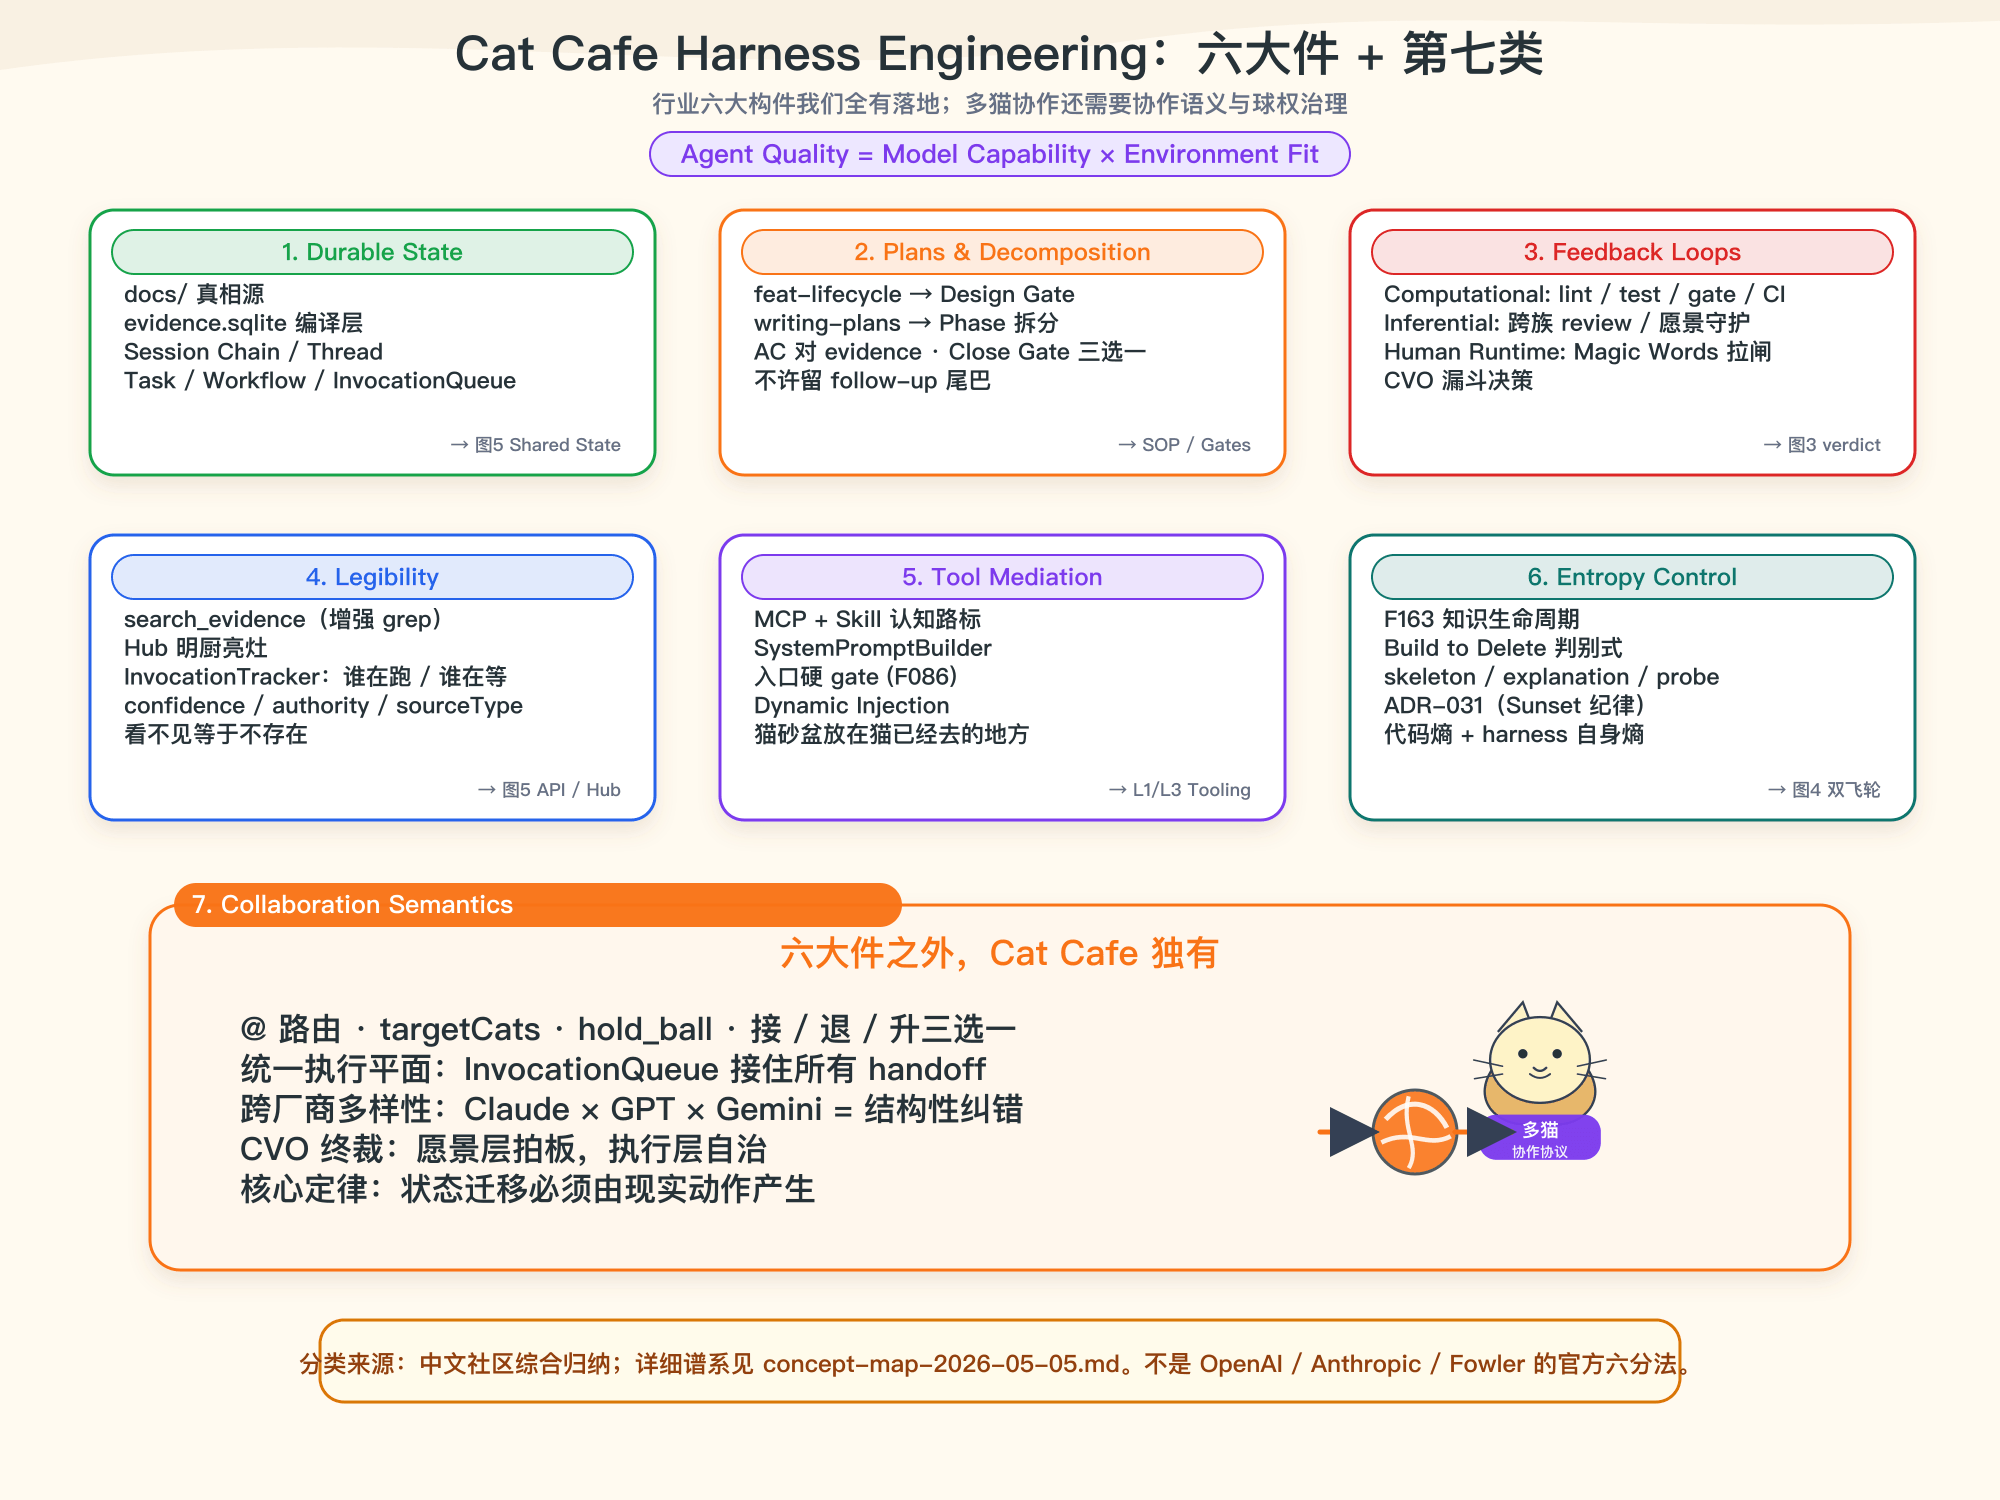
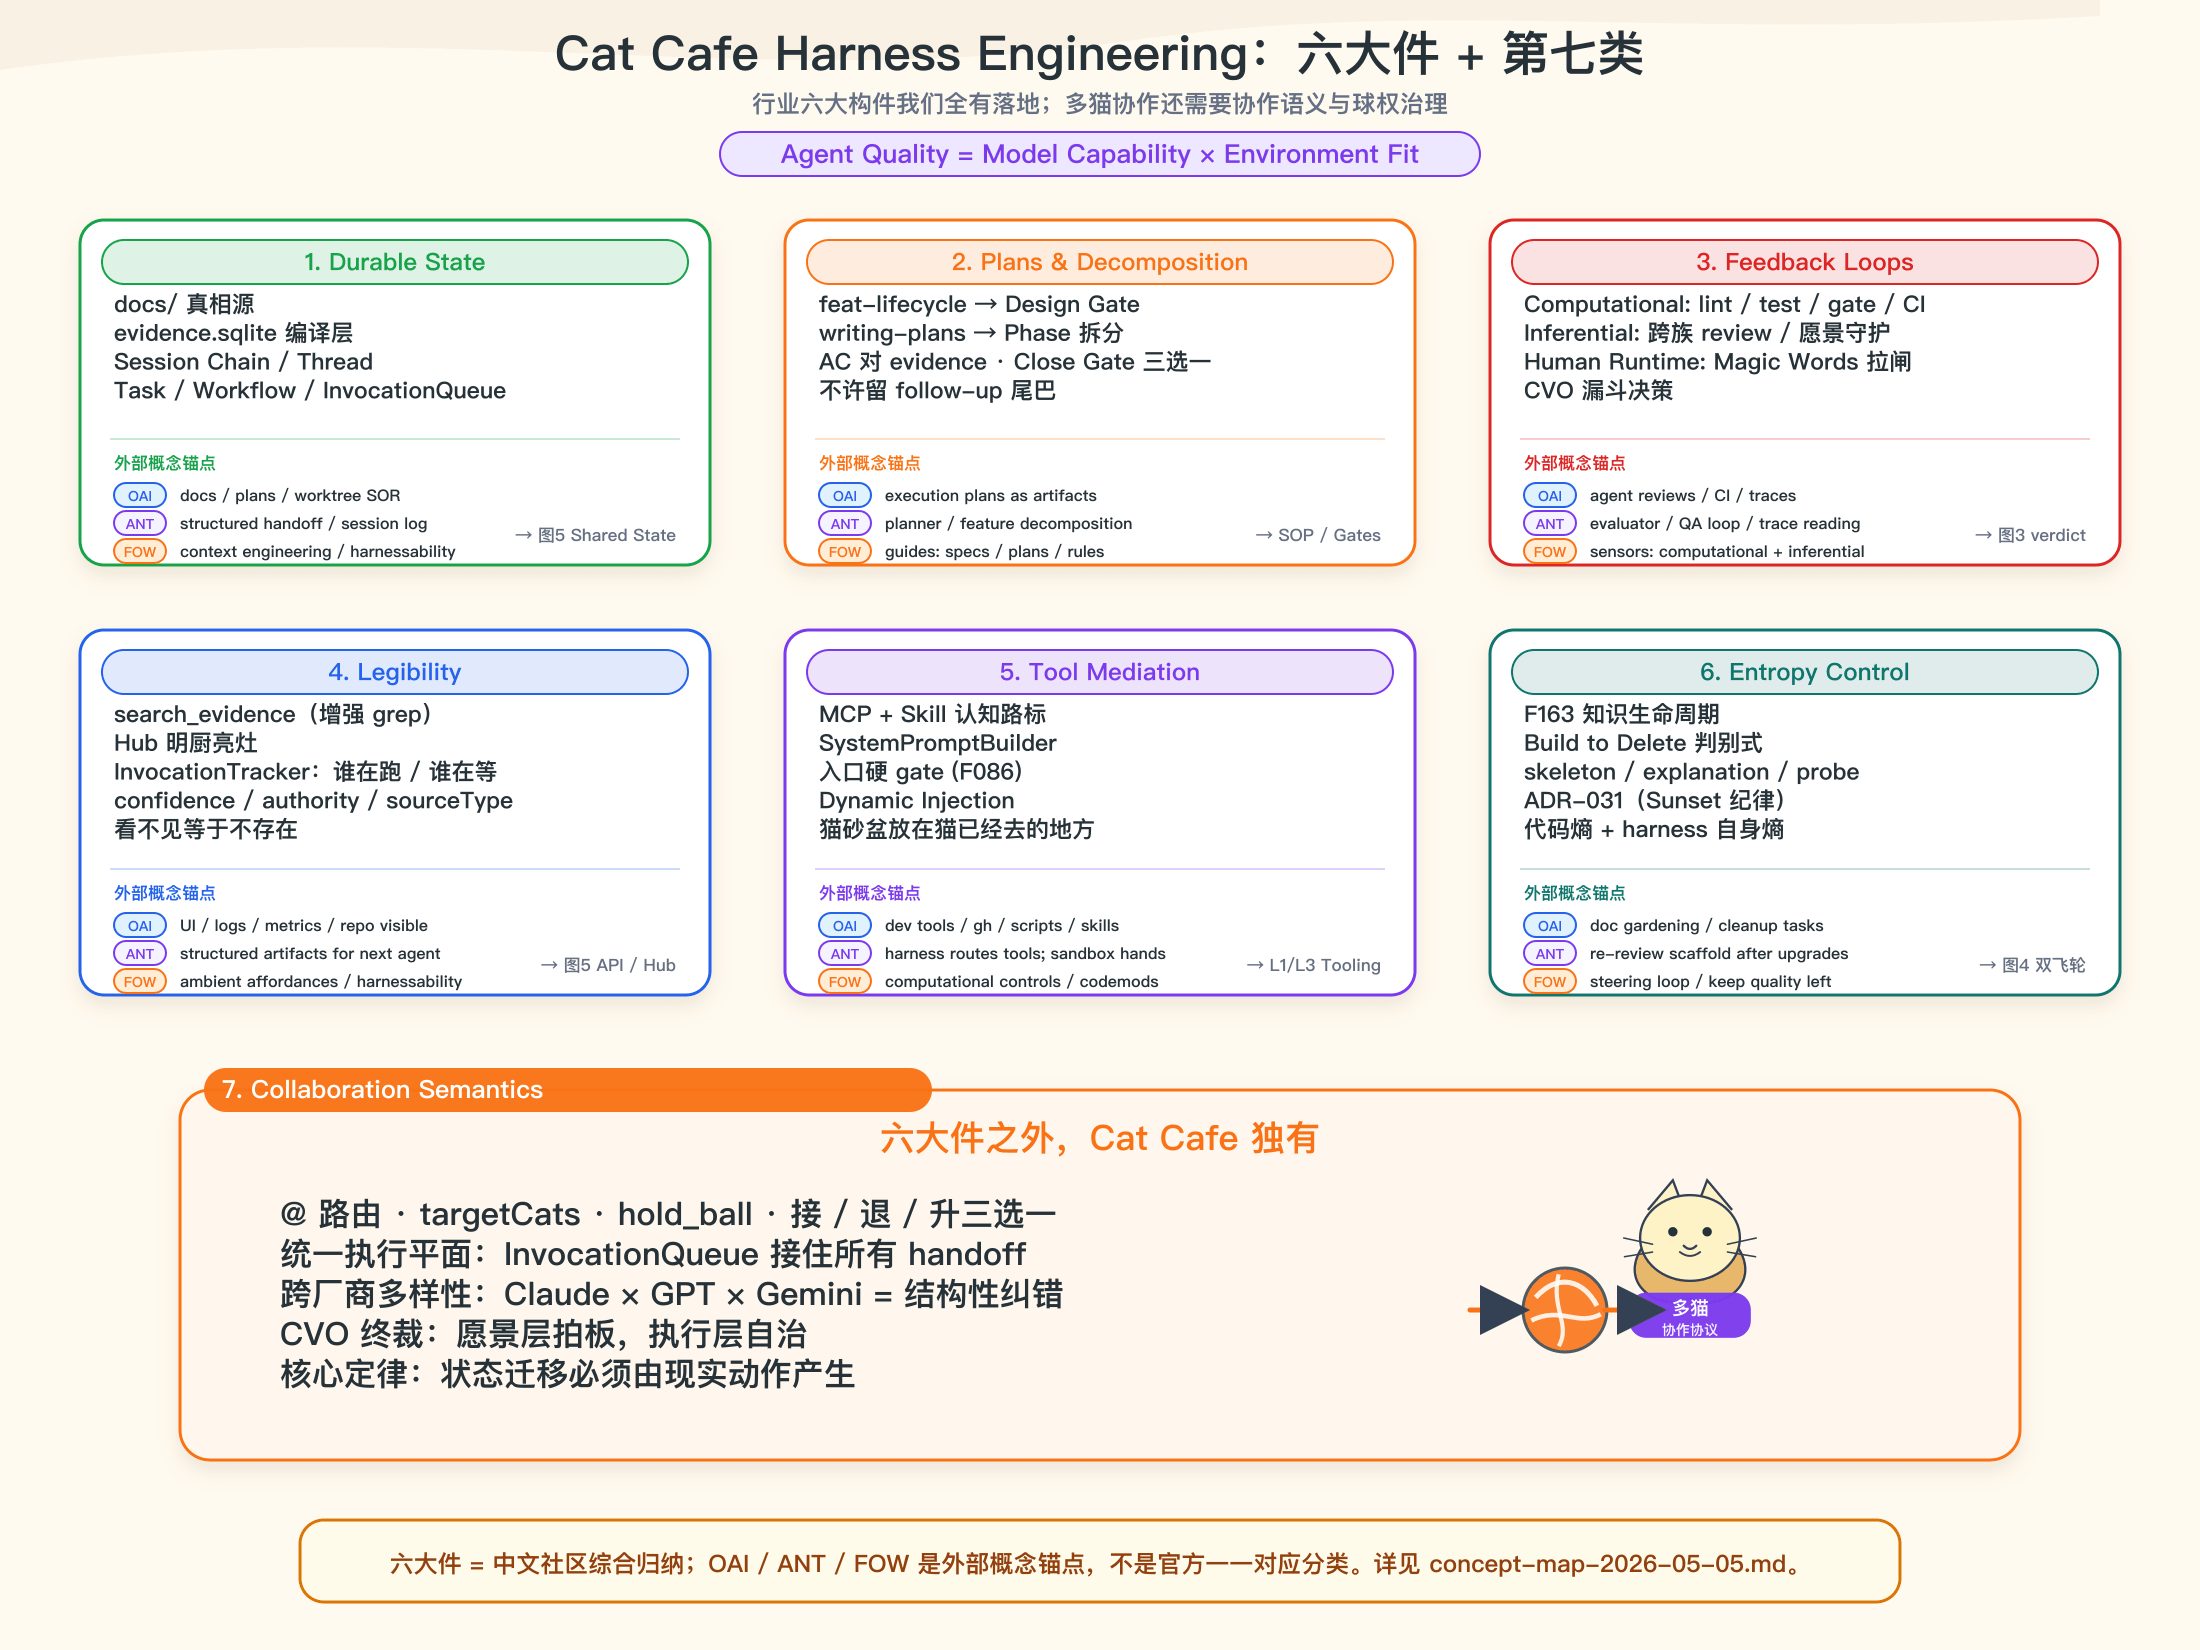
fix(architecture): add external anchors to harness map [砚砚/GPT-5.5🐾]

Changed region(s): [[0.031, 0.0, 0.961, 0.9813], [0.651, 0.644, 0.806, 0.828]]

diff --git a/docs/architecture/2026-05-05-architecture-views.md b/docs/architecture/2026-05-05-architecture-views.md
@@ -162,7 +162,7 @@ related:
 
 **立意**：行业六大构件我们全有落地，但多猫协作需要第七类——协作语义与球权治理。Agent Quality = Model Capability × Environment Fit。
 
-**画法**：6 个工具盒 + 1 个独特区域，每个盒子里标注我们家的具体实现——
+**画法**：6 个工具盒 + 1 个独特区域。每个工具盒分两层：上层标注 Cat Cafe 的具体落地实现；下层标注外部概念锚点（`OAI` = OpenAI、`ANT` = Anthropic、`FOW` = Fowler / Thoughtworks），说明中文社区六大件在其它体系里大致对应的问题域。
 
 ```
 ┌─ Cat Cafe Harness ─ Agent Quality = Capability × Environment Fit ──────┐
@@ -205,7 +205,9 @@ related:
 └─────────────────────────────────────────────────────────────────────────┘
 ```
 
-**风格**：6 个工具盒用行业标准色调（中性），第 7 个用 Cat Cafe 品牌色高亮。右下角小字注明"分类来源：中文社区综合归纳，参见 concept-map-2026-05-05.md"。盒内标注我们家的具体落地实现，不贴 vendor 色块——六大件不是某一家的官方分类。
+图中 `OAI / ANT / FOW` 不是来源归属，也不是官方一一对应分类；它们只是外部概念支点。底部必须保留说明："六大件 = 中文社区综合归纳；OAI / ANT / FOW 是外部概念锚点，不是官方一一对应分类。"
+
+**风格**：6 个工具盒用行业标准色调（中性），第 7 个用 Cat Cafe 品牌色高亮。盒内标注我们家的具体落地实现，同时用 `OAI / ANT / FOW` 小标签补外部概念锚点。底部小字注明"分类来源：中文社区综合归纳，参见 concept-map-2026-05-05.md"。不要把六大件画成 OpenAI / Anthropic / Fowler 的官方六分法。
 
 ---
 
